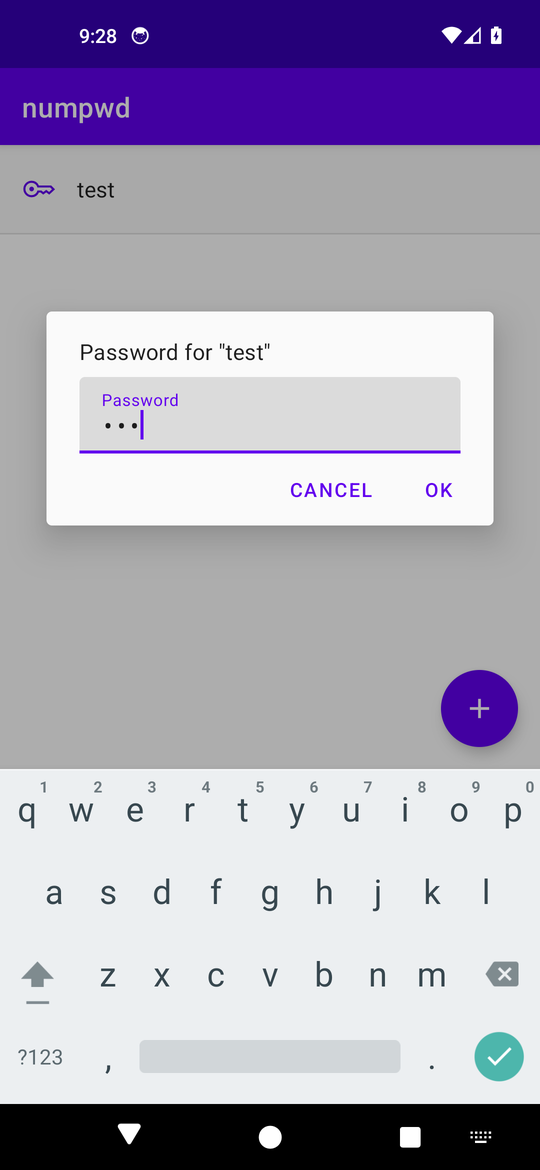
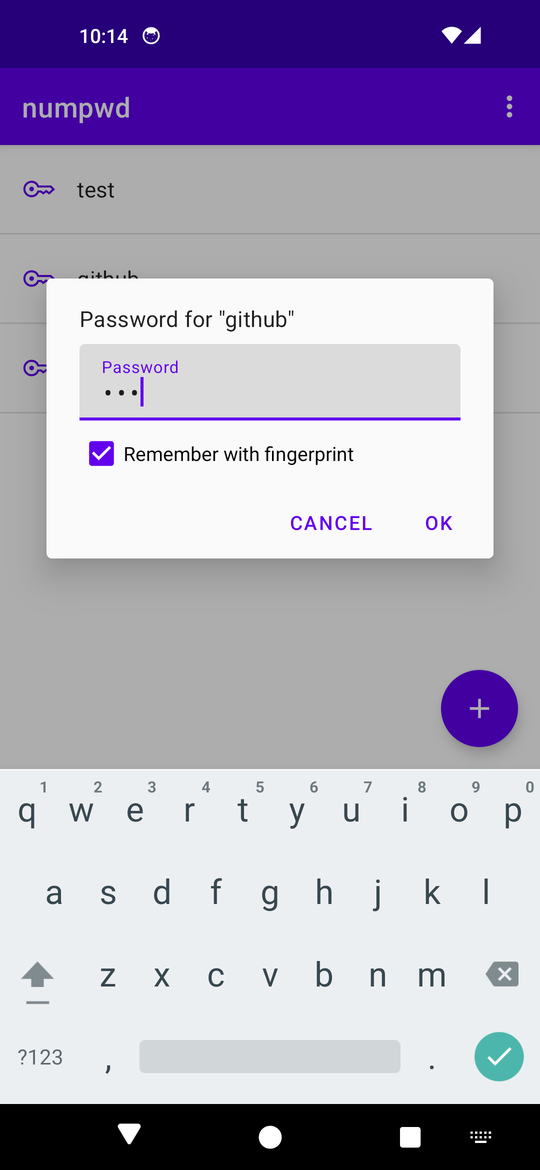
Document remembered passwords and the autofill setting
README, store description, changelog for versionCode 5 and screenshots of
the remember checkbox and the lock marker (taken with a local build without
FLAG_SECURE).

diff --git a/README.md b/README.md
@@ -25,8 +25,9 @@ password on a computer without the app.
 
 ## Features
 
-- Only key names are stored. The password is never saved or logged and is
-  excluded from autofill and keyboard learning.
+- Only key names are stored, unless you choose to remember a password (see
+  below). The password is never logged and is excluded from keyboard
+  learning, and from autofill unless you allow password managers.
 - The password field shows a dot for every character from the first moment,
   also when the system "Show passwords" setting would briefly show the last
   typed character. There is no show/hide toggle.
@@ -35,8 +36,37 @@ password on a computer without the app.
 - Copy buttons for the code and the whole string. The clipboard is cleared
   after 30 seconds if it still holds the copied value, and the result closes
   after a minute.
-- No permissions and no network access. Android backup includes only the key
-  name list.
+- No network access. Android backup includes only the key name list.
+
+## Remembering a password
+
+If the phone has a fingerprint enrolled, the password dialog offers
+**Remember with fingerprint**. With it ticked, the system prompt asks for the
+fingerprint once more and numpwd stores the password encrypted for that key.
+The next tap on the key shows the fingerprint prompt instead of the password
+field; **Type the password** in the prompt, or cancelling it, falls back to
+typing. A lock icon in the list marks such keys.
+
+- The password is encrypted with AES-256-GCM by a key in the Android Keystore
+  (StrongBox when the phone has one). The key can only be used right after a
+  fingerprint authentication for that single operation, so the stored
+  ciphertext is useless without the finger, also to someone who copies the
+  app's files.
+- The screen lock PIN or pattern cannot unlock a remembered password. If it
+  could, the key would survive a new fingerprint enrolment, and anyone who
+  learned the PIN could read every remembered password.
+- Enrolling a new fingerprint or removing the screen lock invalidates the key.
+  numpwd then forgets all remembered passwords, says so, and asks for the
+  password again.
+- Long-press a key for **Forget password**; the menu has **Forget all
+  remembered passwords**. Remembered passwords are not included in Android
+  backup.
+
+## Password managers
+
+The menu item **Allow password managers** (off by default) lets the system
+autofill service fill the password field and offer to save what you type.
+Leave it off unless your password manager is where the password should live.
 
 ## Compatibility notes
 
@@ -86,6 +116,17 @@ Release builds are signed when `NUMPWD_KEYSTORE`, `NUMPWD_KEYSTORE_PASS`,
 ./gradlew :mobile:connectedDebugAndroidTest  # UI test on a device or emulator
 scripts/ci-vector-check.sh 1234              # regenerate vectors with the local openssl
 ```
+
+The fingerprint tests (`RememberPasswordTest`) run only on an emulator. They
+set the PIN 1111, enrol a fingerprint through Settings and touch the sensor via
+the emulator console, which needs the console token:
+
+```sh
+./gradlew :mobile:connectedDebugAndroidTest \
+    -Pandroid.testInstrumentationRunnerArguments.emulatorConsoleToken="$(cat ~/.emulator_console_auth_token)"
+```
+
+Without the token they are skipped.
 
 CI (`.github/workflows/build.yml`) runs all three plus Android lint.
 
